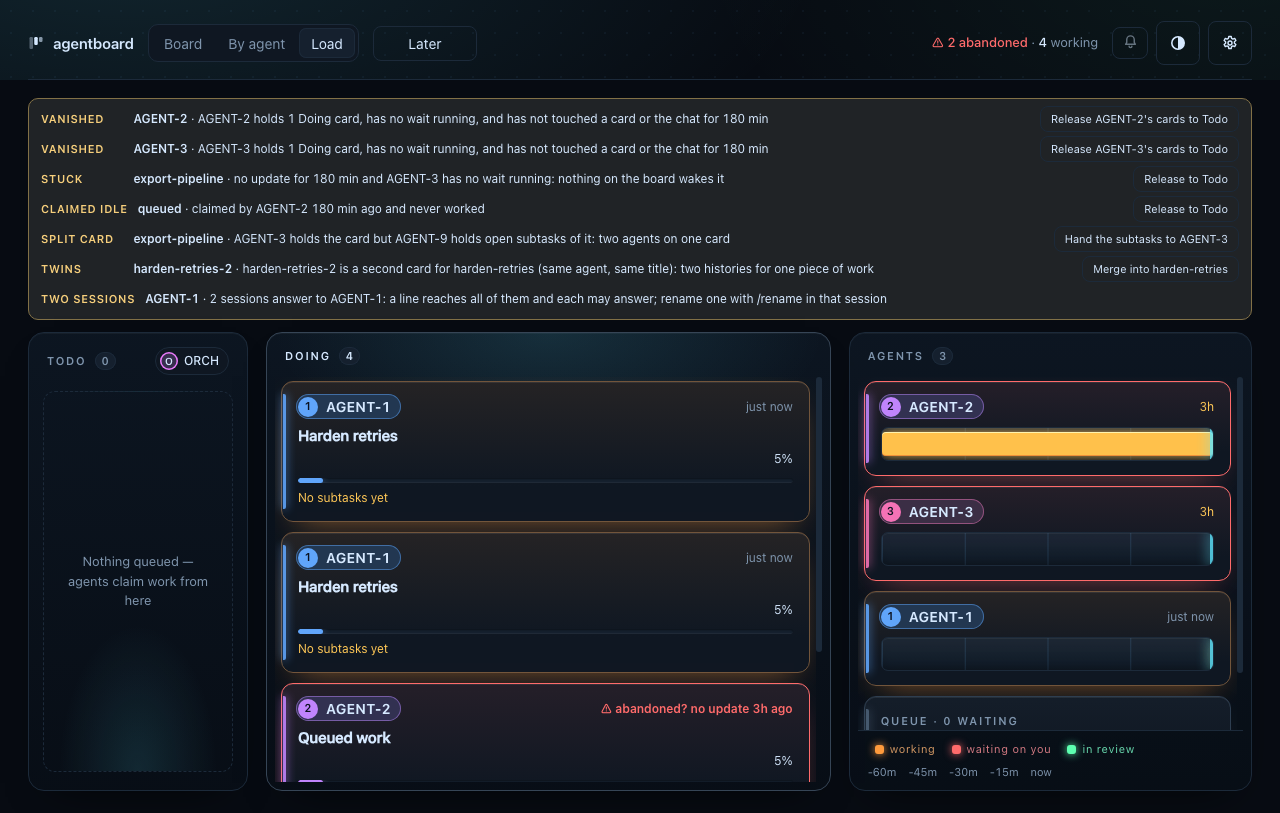
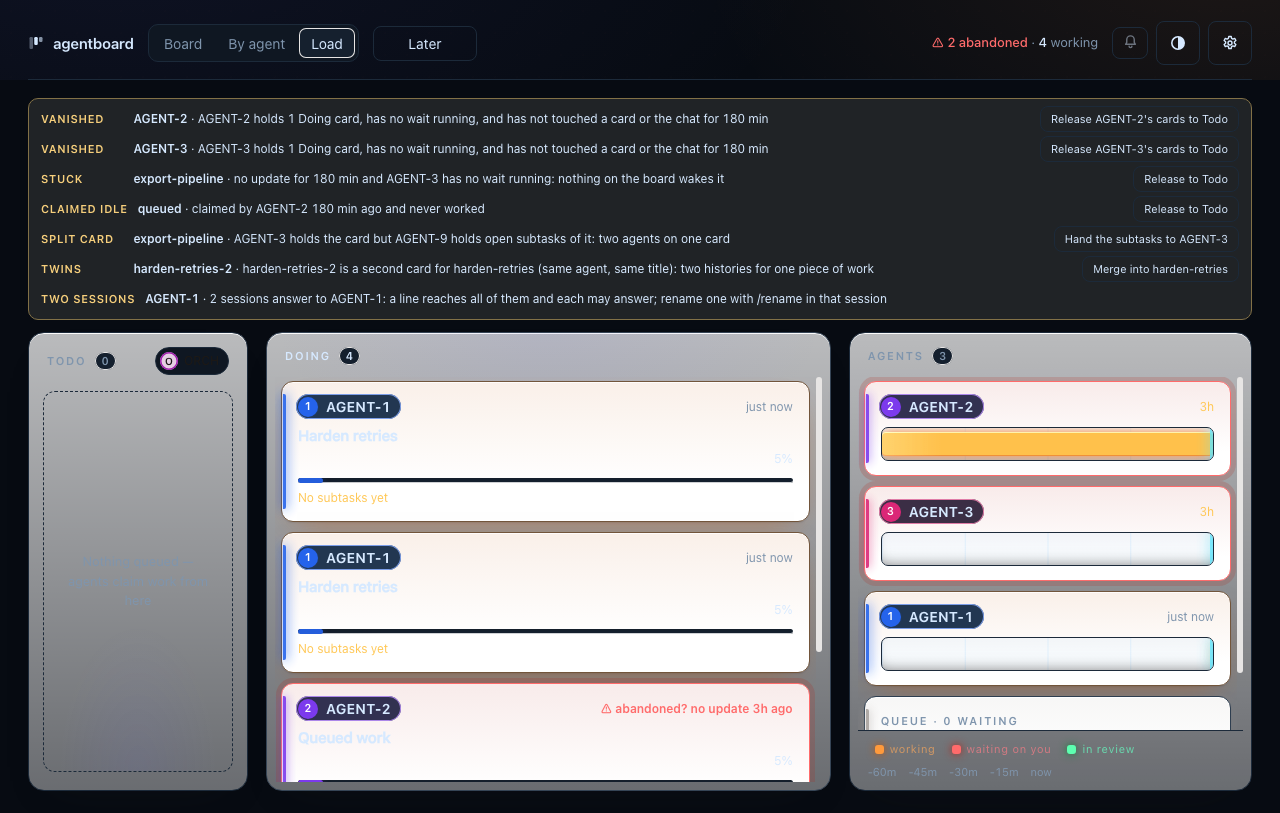
Watchdog: --fix all finishes over overlapping rows, the strip reads at phone width, README and CHANGELOG say what doctor does
Cross-review cards xr-watchdog-fix-all-aborts and xr-watchdog-strip-narrow (AGENT-8). `watchdog --fix all` iterated the
first list and crashed on a stuck row a vanished agent's release-all had already covered; each pick now catches the
refusal and prints "already done", and `--fix abc` is refused with the accepted forms before anything else, on a clean
board too. The strip's rows were a flex column that shrank wrapped rows to 28px and overprinted at 390px; each row is
flex: none and, under 720px, a two-line grid (kind and button, then the sentence); the three screenshots are re-shot
(light in the light theme) and the headless check asserts no two rows overlap. README gains a watchdog paragraph beside
dedupe; the CHANGELOG says doctor --strict exits 1 while a claim is stale. Tests cover --fix all over overlapping rows
and the refused --fix.

diff --git a/src/agentboard/static/index.html b/src/agentboard/static/index.html
@@ -583,13 +583,16 @@
   .h-dog { flex: none; display: flex; flex-direction: column; gap: 2px; margin: 0 0 12px; padding: 6px 12px; max-height: 28vh; overflow: auto; border: 1px solid color-mix(in srgb, var(--warn) 45%, var(--line)); border-radius: 10px; background: color-mix(in srgb, var(--warn) 7%, var(--surface)); font-size: var(--fs-sm); }   /* the watchdog's findings (overnight-rel-agent-protocol): its own row above the grid */
   .h-dog[hidden] { display: none; }
   .hud:has(.h-dog:not([hidden])) { grid-template-rows: auto minmax(0, 1fr); }   /* the strip takes a row of its own; the lanes keep the rest */
-  .h-dog .row { display: flex; align-items: center; gap: 10px; min-height: 28px; }
+  .h-dog .row { display: flex; flex: none; align-items: center; gap: 10px; min-height: 28px; }   /* flex: none, or wrapped rows shrink and overprint in a scrolling strip */
   .h-dog .kind { flex: none; font-size: var(--fs-xs); text-transform: uppercase; letter-spacing: var(--tr-tight); font-weight: 600; color: color-mix(in srgb, var(--warn) 78%, var(--text)); min-width: 7.5em; }
   .h-dog .what { flex: 1; min-width: 0; color: var(--text); overflow: hidden; text-overflow: ellipsis; white-space: nowrap; }
   .h-dog .what b { font-weight: 600; }
   .h-dog .btn { flex: none; min-height: 26px; padding: 1px 10px; font-size: var(--fs-xs); }
   .h-dog .did { flex: none; font-size: var(--fs-xs); color: var(--ok); }
-  @media (max-width: 720px) { .h-dog .what { white-space: normal; } .h-dog .row { flex-wrap: wrap; } }
+  @media (max-width: 720px) {   /* a phone: the kind and the button share the first line, the sentence takes a full line under them */
+    .h-dog .row { display: grid; grid-template-columns: 1fr auto; align-items: center; gap: 2px 8px; padding: 4px 0; }
+    .h-dog .what { grid-column: 1 / -1; white-space: normal; }
+  }
   .h-one > h2 .ln-wait { margin-left: auto; color: var(--warn); font-size: var(--fs-xs); letter-spacing: 0; text-transform: none; font-weight: 600; }
   .h-scroll { overflow-x: hidden; scrollbar-gutter: stable; }
   .h-row { cursor: default; } .h-row.attn[data-id] { cursor: pointer; }

diff --git a/src/agentboard/cli.py b/src/agentboard/cli.py
@@ -1233,6 +1233,10 @@ def cmd_watchdog(a):
     from . import watchdog
     s = _store()
     items = watchdog.findings(s, stale_min=a.stale_minutes)
+    if a.fix is not None and a.fix != "all":   # checked first, so `--fix abc` is refused even on a clean board
+        parts = [x.strip() for x in str(a.fix).split(",") if x.strip()]
+        if not parts or not all(x.isdigit() for x in parts):
+            raise BoardError(f"--fix takes finding numbers (1, or 1,3) or all; not {a.fix!r}")
     if a.json:
         print(json.dumps(items, indent=1))
         return
@@ -1244,15 +1248,19 @@ def cmd_watchdog(a):
         print(f"{head}\n    {f['what']}" + (f"\n    fix: {f['fix']['label']}  (agentboard watchdog --fix {n})" if f.get("fix") else ""))
     if a.fix is None:
         return
-    picks = range(1, len(items) + 1) if a.fix == "all" else [int(x) for x in str(a.fix).split(",") if x.strip().isdigit()]
+    picks = list(range(1, len(items) + 1)) if a.fix == "all" else [int(x.strip()) for x in str(a.fix).split(",") if x.strip()]
     for n in picks:
         f = items[n - 1] if 1 <= n <= len(items) else None
         if not f:
-            raise BoardError(f"no finding number {n}")
+            raise BoardError(f"no finding number {n} (the list has {len(items)})")
         if not f.get("fix"):
             print(f"{n}. {f['kind']}: nothing the board can do; {f['what']}")
             continue
-        touched = watchdog.heal(s, f["fix"]["action"], f["fix"]["id"])
+        try:
+            touched = watchdog.heal(s, f["fix"]["action"], f["fix"]["id"])
+        except BoardError as e:   # an earlier fix in the same run covered it (a vanished agent's release-all takes its stuck cards too)
+            print(f"{n}. {f['fix']['label']}: already done ({e})")
+            continue
         print(f"{n}. {f['fix']['label']}: done ({', '.join(touched)})")
 
 

diff --git a/tests/test_watchdog.py b/tests/test_watchdog.py
@@ -218,6 +218,20 @@ class TheCli(Base):
         code, out, err = self.run_cli("watchdog", "--fix", "9")
         self.assertIn("ok", out)   # nothing to fix: the list is empty, --fix 9 is not reached
 
+    def test_fix_all_finishes_when_a_vanished_agents_release_covered_its_stuck_rows_and_a_bad_fix_is_refused(self):
+        self.s.start("A", "AGENT-5", None)
+        self.s.start("B", "AGENT-5", None)
+        self.s.update("b", 30, "some work")
+        hooks.remember_session(self.s.dir, "AGENT-5", session_id="s5")
+        self.age("a", "b")
+        code, out, err = self.run_cli("watchdog", "--stale-minutes", "60", "--fix", "all")
+        self.assertIsNone(code, str(code))                                  # the run ends well
+        self.assertIn("Release AGENT-5's cards to Todo: done (a, b)", out)
+        self.assertEqual(out.count("already done"), 2)                     # the stuck and claimed-idle rows were covered by the release-all
+        self.assertEqual([t["status"] for t in self.s.load()], ["todo", "todo"])
+        code, out, err = self.run_cli("watchdog", "--fix", "abc")
+        self.assertIn("--fix takes finding numbers (1, or 1,3) or all; not 'abc'", str(code))
+
 
 class TheHudAndTheDoctor(Base):
     def test_doctor_warns_with_the_counts_and_passes_when_clean(self):

diff --git a/docs/overnight/overnight-rel-agent-protocol.md b/docs/overnight/overnight-rel-agent-protocol.md
@@ -87,6 +87,15 @@ In the headless-Chrome check the strip listed vanished, stuck, claimed-idle, spl
 - No change to the board file format. The HUD strip is new markup in `index.html` (`#h-dog`) and three CSS rules; it is hidden when
   there is nothing to show, so a clean board looks as before.
 
+## After the cross-review (AGENT-8, cards xr-watchdog-fix-all-aborts, xr-watchdog-strip-narrow)
+
+- `watchdog --fix all` no longer ends in an error when a vanished agent's release-all already covered its stuck rows: those rows print
+  "already done" and the run goes on; `--fix abc` is refused with the accepted forms, on a clean board too.
+- The strip's rows no longer shrink and overprint at phone width: each row is `flex: none`, and under 720px it is a two-line grid (kind and
+  button, then the sentence). The three screenshots are re-shot from a throwaway board, the light one in the light theme this time; the
+  narrow check asserts no two rows overlap.
+- README has a `watchdog` paragraph beside `dedupe`; the CHANGELOG says `doctor --strict` exits 1 while a claim is stale.
+
 ## Not done (candidates for a next card)
 
 - The board page (not only Load) could carry the same strip under the Doing header.

diff --git a/CHANGELOG.md b/CHANGELOG.md
@@ -13,7 +13,9 @@
   follows its parent's column. Every fix is one history line marked "the watchdog, for <owner>". The two with no board-side fix say
   what to run. Nothing happens unasked.
 - The Load view shows the findings in a strip above the lanes, one row each with its button; `/api/hud` carries them and
-  `/api/watchdog-fix` does one. `agentboard doctor` gains a `watchdog` line: WARN with the counts, PASS when the board is clean.
+  `/api/watchdog-fix` does one. `agentboard doctor` gains a `watchdog` line: WARN with the counts, PASS when the board is clean (so `doctor --strict` exits 1 while a claim is
+  stale or an agent has vanished). `watchdog --fix all` reports a row an earlier fix in the same run already covered as "already done" and
+  goes on; `--fix abc` is refused with the accepted forms.
 - A claim refused because another agent holds the card now says what to do (ask ORCH, or `agentboard watchdog` if that agent is
   gone) instead of only "use --force". Card `overnight-rel-agent-protocol`; evidence in `docs/overnight/overnight-rel-agent-protocol.md`.
 

diff --git a/README.md b/README.md
@@ -341,6 +341,10 @@ kept 48 hours hourly and 30 days daily) whenever the board is saved or `agentboa
 of the newest snapshot. Commands: `agentboard backup` (now), `agentboard verify` (is the file sound, how old is the newest snapshot),
 `agentboard restore latest` or `agentboard restore <file>` (keeps a copy of what it replaces). All local files, no network.
 
+`agentboard watchdog` lists every way the board is stuck between agents (a claim nobody worked, a holder that vanished, twin cards, a card
+held by one agent with subtasks held by another, an orphan subtask, two sessions under one name), each with its one fix; `--fix N` (or
+`all`) does it and writes one history line. The Load view shows the same rows with a button each, and `agentboard doctor` carries a
+`watchdog` line (a WARN, so `doctor --strict` exits 1 while a claim is stale).
 `agentboard dedupe` finds twin cards (an `<id>-2` made when an agent ran `start` for work it already held) and `--apply` merges them;
 `start` and `claim` no longer make twins.
 
